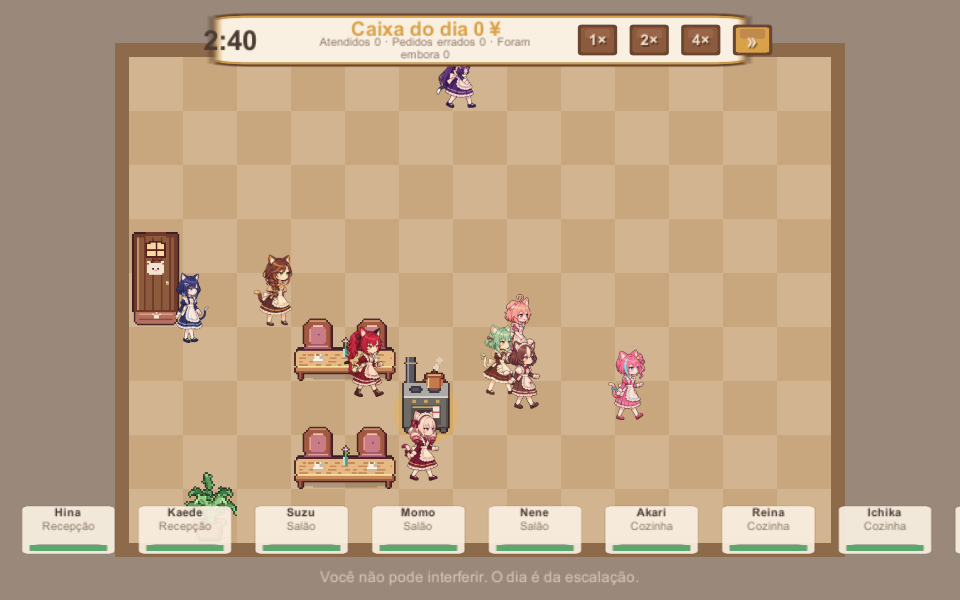
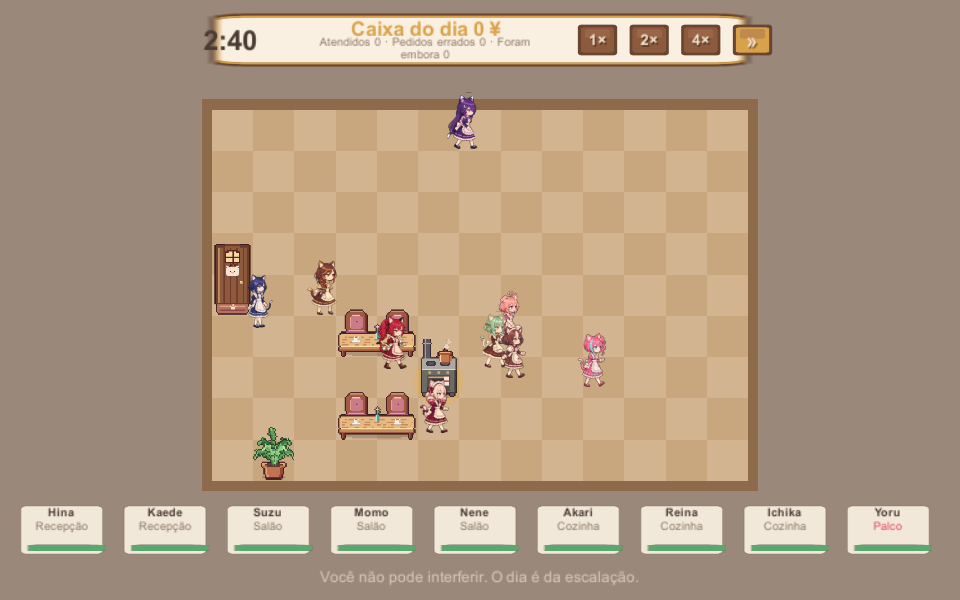
fix(view): frame the shift room between HUD bands; reproducible maid_walk metas; unity guard ignores MCP server
- CameraRig.FrameRoomBetweenHud keeps top-row maids and the lineup chips clear of the HUD (1280x720, 960x600); chips narrowed to fit 16:10
- maid_walk.py preserves .meta GUIDs, --only touches only selected maids, import settings follow style
- unity-editor-processes.py classifies by full command line (unity mcp ignored, ambiguous fails closed) + tests
- docs: WebGL/memory findings, refreshed together_06/10 captures

diff --git a/tools/unity-editor-processes.py b/tools/unity-editor-processes.py
@@ -6,8 +6,10 @@ Unlike `pgrep -x Unity`, reading argv is not affected by Linux's truncated
 """
 import csv
 import io
+import json
 import os
 import pathlib
+import re
 import subprocess
 import sys
 
@@ -15,6 +17,45 @@ import sys
 def is_editor(executable: str) -> bool:
     name = executable.replace("\\", "/").rstrip("/").split("/")[-1].lower()
     return name in {"unity", "unity.exe", "unity-editor"}
+
+
+EDITOR_FLAGS = {"-projectpath", "-batchmode", "-executemethod", "-createproject",
+                "-runtests", "-quit", "-logfile", "-nographics"}
+EDITOR = "editor"
+MCP = "mcp"
+AMBIGUOUS = "ambiguous"
+
+
+def tokenize(command_line: str):
+    """Split a command line into tokens, honouring double quotes (Windows style)."""
+    return [a or b for a, b in re.findall(r'"([^"]*)"|(\S+)', command_line)]
+
+
+def classify(command_line):
+    """Classify one Unity-named process by its FULL command line.
+
+    MCP: the Unity CLI's MCP server, i.e. `unity mcp [...]` with no Editor flags. It never
+         opens the project, so it must not block Editor operations.
+    AMBIGUOUS: the command line is missing/unreadable. Treated as blocking (fail-closed).
+    EDITOR: anything else, including every real Editor launch.
+    """
+    if command_line is None or not command_line.strip():
+        return AMBIGUOUS
+    tokens = tokenize(command_line)
+    if not tokens:
+        return AMBIGUOUS
+    # The Editor binary lives in an ".../Editor/Unity.exe" install folder; the CLI does not.
+    if re.search(r"[\\/]editor[\\/]unity(\.exe)?$", tokens[0].lower()):
+        return EDITOR
+    args = [t.lower() for t in tokens[1:]]
+    if args and args[0] == "mcp" and not any(a in EDITOR_FLAGS for a in args):
+        return MCP
+    return EDITOR
+
+
+def blocking(processes):
+    """processes: iterable of (pid, command_line). Returns the pids that block an Editor run."""
+    return [pid for pid, line in processes if classify(line) != MCP]
 
 
 def editors_linux():
@@ -28,7 +69,9 @@ def editors_linux():
         try:
             args = (pid_dir / "cmdline").read_bytes().split(b"\0")
             if args[0] and is_editor(args[0].decode("utf-8", errors="replace")):
-                found.append(int(pid_dir.name))
+                line = " ".join('"%s"' % a.decode("utf-8", errors="replace")
+                                for a in args if a)
+                found.append((int(pid_dir.name), line))
         except (FileNotFoundError, ProcessLookupError, PermissionError):
             # Short-lived process gone or not owned by this user.
             continue
@@ -43,20 +86,24 @@ def editors_macos():
         if len(fields) == 2 and fields[0].isdigit():
             executable = fields[1].split(None, 1)[0]
             if is_editor(executable):
-                found.append(int(fields[0]))
+                found.append((int(fields[0]), fields[1]))
     return found
 
 
 def editors_windows():
+    """(pid, full command line) of every Unity.exe; the line is None when unreadable."""
+    script = ("Get-CimInstance Win32_Process -Filter \"Name='Unity.exe'\" | "
+              "Select-Object ProcessId,CommandLine | ConvertTo-Json -Compress")
     output = subprocess.check_output(
-        ["tasklist.exe", "/FI", "IMAGENAME eq Unity.exe", "/FO", "CSV", "/NH"],
-        text=True, errors="replace"
-    )
-    found = []
-    for cells in csv.reader(io.StringIO(output)):
-        if len(cells) >= 2 and cells[0].lower() == "unity.exe" and cells[1].isdigit():
-            found.append(int(cells[1]))
-    return found
+        ["powershell.exe", "-NoProfile", "-NonInteractive", "-Command", script],
+        text=True, errors="replace")
+    output = output.strip()
+    if not output:
+        return []
+    data = json.loads(output)
+    if isinstance(data, dict):
+        data = [data]
+    return [(int(row["ProcessId"]), row.get("CommandLine")) for row in data]
 
 
 if __name__ == "__main__":
@@ -72,7 +119,9 @@ if __name__ == "__main__":
     except (RuntimeError, OSError, subprocess.SubprocessError) as exc:
         print(f"ERROR: Unity Editor process detection unavailable: {exc}", file=sys.stderr)
         sys.exit(2)
+    found = blocking(found)
     if found:
-        print(f"ERROR: Unity Editor is already running (PID(s) {', '.join(map(str, found))}). "
+        print(f"ERROR: Unity Editor is already running or cannot be told apart from one "
+              f"(PID(s) {', '.join(map(str, found))}). "
               "Close it before running another Editor operation.", file=sys.stderr)
         sys.exit(1)

diff --git a/tools/art/maid_walk/maid_walk.py b/tools/art/maid_walk/maid_walk.py
@@ -397,13 +397,27 @@ META_FOLDER = "fileFormatVersion: 2\nguid: GUID\nfolderAsset: yes\nDefaultImport
 META_TEXT = "fileFormatVersion: 2\nguid: GUID\nTextScriptImporter:\n  externalObjects: {}\n  userData:\n  assetBundleName:\n  assetBundleVariant:\n"
 
 
-def ensure_meta(path, template):
-    """Unity .meta with a GUID derived from the asset's path, so reruns never change it."""
+# Import settings that follow the processed style (the template carries tokens, never a fixed style).
+META_STYLE = {
+    "illustrated": {"ENABLE_MIPMAP": "1", "FILTER_MODE": "2", "MIP_BIAS": "-0.5"},  # Trilinear + mipmaps
+    "pixel": {"ENABLE_MIPMAP": "0", "FILTER_MODE": "0", "MIP_BIAS": "0"},           # Point, no mipmaps
+}
+
+
+def ensure_meta(path, template, style="illustrated"):
+    """Unity .meta for `path`. An existing GUID is always kept; a new asset gets one derived from its path."""
     meta = path + ".meta"
-    if True:  # always rewritten: import settings (filter, mipmaps, compression) come from the template
+    guid = None
+    if os.path.exists(meta):
+        found = re.search(r"^guid: ([0-9a-f]{32})\s*$", open(meta, encoding="utf8").read(), re.M)
+        guid = found.group(1) if found else None
+    if guid is None:
         guid = hashlib.md5(os.path.relpath(path, ROOT).replace("\\", "/").encode()).hexdigest()
-        with open(meta, "w", encoding="utf8", newline="\n") as f:
-            f.write(template.replace("GUID", guid))
+    text = template.replace("GUID", guid)
+    for token, value in META_STYLE[style].items():
+        text = text.replace(token, value)
+    with open(meta, "w", encoding="utf8", newline="\n") as f:
+        f.write(text)
 
 
 def main():
@@ -470,8 +484,10 @@ def main():
             json.dump({"maids": entries}, f, indent=1)
             f.write("\n")
     if write:
-        for f in glob.glob(os.path.join(OUT_RES, "*_walk.png")):  # rewrites every .meta from the template
-            ensure_meta(f, META_TEXTURE)
+        # Only the sheets processed in this run: a `--only` run never touches another maid's asset or .meta.
+        for r in results:
+            if r.get("resource"):
+                ensure_meta(os.path.join(OUT_RES, r["id"] + "_walk.png"), META_TEXTURE, maids[0]["style"])
         ensure_meta(os.path.join(OUT_RES, "maid_walk_catalog.json"), META_TEXT)
         ensure_meta(OUT_RES, META_FOLDER)
     with open(os.path.join(work, "audit.json"), "w", encoding="utf8") as f:

diff --git a/Assets/_Game/Scripts/Game/Core/CameraRig.cs b/Assets/_Game/Scripts/Game/Core/CameraRig.cs
@@ -29,6 +29,20 @@ namespace Neko.Game.Core
         /// </remarks>
         public const float Margin = 0.9f;
 
+        /// <summary>
+        /// HUD bands during a shift, in 720-pixel reference units (the canvas matches height,
+        /// so these are the same fraction of the screen at every window size): the top bar
+        /// and the bottom lineup strip plus hint line.
+        /// </summary>
+        public const float ShiftTopInset = 92f;
+        public const float ShiftBottomInset = 128f;
+
+        /// <summary>Tiles above the top row that a standing maid's head occupies.</summary>
+        public const float HeadRoom = 0.8f;
+
+        /// <summary>Tiles below the bottom row kept for feet and the room frame.</summary>
+        public const float FootRoom = 0.3f;
+
         private Vector3 _home;
         private float _shakeSeconds;
         private float _shakeAmplitude;
@@ -64,6 +78,33 @@ namespace Neko.Game.Core
             var wantedWidth = (width + Margin * 2f) * 0.5f / NarrowestAspect;
 
             Camera.orthographicSize = Mathf.Max(wantedHeight, wantedWidth);
+        }
+
+        /// <summary>
+        /// Frames the room so that every tile, and the head of a maid standing on the top row,
+        /// sits between the shift HUD's top bar and bottom strip instead of behind them.
+        /// Never zooms in further than <see cref="FrameRoom"/> would.
+        /// </summary>
+        public void FrameRoomBetweenHud(int width, int height)
+        {
+            FrameRoom(width, height);
+
+            const float reference = 720f;
+            var low = ShiftBottomInset / reference;
+            var high = 1f - ShiftTopInset / reference;
+
+            var bottom = -0.5f - FootRoom;
+            var top = height - 0.5f + HeadRoom;
+            var size = Mathf.Max(Camera.orthographicSize, (top - bottom) / (2f * (high - low)));
+            Camera.orthographicSize = size;
+
+            // Centre the content in the band between the two HUD edges.
+            var middle = (top + bottom) * 0.5f;
+            var centre = (low + high) * 0.5f;
+            var y = middle + size - 2f * size * centre;
+
+            _home = new Vector3((width - 1) * 0.5f, y, -10f);
+            transform.position = _home;
         }
 
         public void Shake(float amplitude, float seconds)

diff --git a/Assets/_Game/Scripts/Game/Ui/DayHud.cs b/Assets/_Game/Scripts/Game/Ui/DayHud.cs
@@ -68,7 +68,7 @@ namespace Neko.Game.Ui
 
             _strip = UiKit.Row(transform, 8f);
             UiKit.Anchor(_strip, new Vector2(0f, 0f), new Vector2(16f, 46f));
-            _strip.sizeDelta = new Vector2(1000f, 76f);
+            _strip.sizeDelta = new Vector2(1100f, 76f);
 
             var hint = UiKit.Label(transform, Strings.Get("day.watching"), Typeface.Small,
                 Palette.WithAlpha(Palette.Cream, 0.7f));
@@ -97,21 +97,21 @@ namespace Neko.Game.Ui
 
             foreach (var worker in shift.Workers)
             {
-                var chip = UiKit.Panel(_strip, new Vector2(132f, 68f),
+                var chip = UiKit.Panel(_strip, new Vector2(116f, 68f),
                     Palette.WithAlpha(Palette.Panel, 0.92f), 0.2f);
                 _chips.Add(chip.gameObject);
 
                 var name = UiKit.Label(chip, worker.Name, Typeface.Tiny, Palette.Text,
                     bold: true);
-                name.rectTransform.sizeDelta = new Vector2(126f, 18f);
+                name.rectTransform.sizeDelta = new Vector2(112f, 18f);
                 UiKit.Anchor(name.rectTransform, new Vector2(0.5f, 1f), new Vector2(0f, -4f));
 
                 var role = UiKit.Label(chip, RoleTable.For(worker.Role).DisplayName,
                     Typeface.Tiny, worker.InPosition ? Palette.TextDim : Palette.Alarm);
-                role.rectTransform.sizeDelta = new Vector2(126f, 16f);
+                role.rectTransform.sizeDelta = new Vector2(112f, 16f);
                 UiKit.Anchor(role.rectTransform, new Vector2(0.5f, 1f), new Vector2(0f, -22f));
 
-                var mood = UiKit.Bar(chip, new Vector2(110f, 9f), Palette.Good, Palette.Wall);
+                var mood = UiKit.Bar(chip, new Vector2(98f, 9f), Palette.Good, Palette.Wall);
                 UiKit.Anchor((RectTransform)mood.rectTransform.parent, new Vector2(0.5f, 0f),
                     new Vector2(0f, 8f));
 

diff --git a/tools/tests/test_unity_editor_processes.py b/tools/tests/test_unity_editor_processes.py
@@ -1,0 +1,42 @@
+#!/usr/bin/env python3
+"""Classification of Unity-named processes: MCP server vs real Editor vs ambiguous."""
+import importlib.util
+from pathlib import Path
+import unittest
+
+PATH = Path(__file__).resolve().parents[1] / "unity-editor-processes.py"
+spec = importlib.util.spec_from_file_location("unity_editor_processes", PATH)
+mod = importlib.util.module_from_spec(spec)
+spec.loader.exec_module(mod)
+
+EDITOR_EXE = r'"C:\Program Files\Unity\Hub\Editor\6000.5.9f1\Editor\Unity.exe"'
+
+
+class Classification(unittest.TestCase):
+    def test_mcp_server_is_ignored(self):
+        self.assertEqual(mod.classify("unity mcp"), mod.MCP)
+        self.assertEqual(mod.blocking([(1, "unity mcp")]), [])
+
+    def test_real_editor_blocks(self):
+        for line in (EDITOR_EXE,
+                     EDITOR_EXE + r' -projectPath C:\dev\game',
+                     EDITOR_EXE + " -batchmode -quit",
+                     "unity -projectPath x"):
+            self.assertEqual(mod.classify(line), mod.EDITOR, line)
+        self.assertEqual(mod.blocking([(7, EDITOR_EXE)]), [7])
+
+    def test_mcp_word_with_editor_flags_or_editor_binary_still_blocks(self):
+        self.assertEqual(mod.classify("unity mcp -projectPath x"), mod.EDITOR)
+        self.assertEqual(mod.classify(EDITOR_EXE + " mcp"), mod.EDITOR)
+
+    def test_ambiguous_fails_closed(self):
+        for line in (None, "", "   "):
+            self.assertEqual(mod.classify(line), mod.AMBIGUOUS)
+            self.assertEqual(mod.blocking([(9, line)]), [9])
+
+    def test_mixed_list_blocks_only_on_non_mcp(self):
+        self.assertEqual(mod.blocking([(1, "unity mcp"), (2, EDITOR_EXE), (3, None)]), [2, 3])
+
+
+if __name__ == "__main__":
+    unittest.main()

diff --git a/Assets/_Game/Scripts/Game/Core/GameRoot.cs b/Assets/_Game/Scripts/Game/Core/GameRoot.cs
@@ -296,7 +296,7 @@ namespace Neko.Game.Core
             Clocks.Reset();
 
             var shift = Session.StartDay();
-            Camera.FrameRoom(shift.Grid.Width, shift.Grid.Height);
+            Camera.FrameRoomBetweenHud(shift.Grid.Width, shift.Grid.Height);
             Presenter.Begin(shift);
 
             // Shown first, then filled. A screen builds its widgets on its first show,

diff --git a/docs/art/maid-walk/README.md b/docs/art/maid-walk/README.md
@@ -17,9 +17,15 @@ Window > General > Test Runner > PlayMode, run `MaidGameplayTests`:
 ## Trade-offs
 - **Sliding feet**: sources are slow walks in place; cadence is ~30 drawings/s at 1x, capped at 60/s. Feet slide 2.4-5.2x (see inventory). Needs faster-stride footage to fix.
 - **Style (ART-04, current)**: illustrated anime 2D. One Lanczos downsample (premultiplied alpha) of the original frame to 240 px character height; original colours, shading, outlines and soft alpha untouched; no palette, no hard alpha. The sprite is still 1.3 world units tall (`pixels_per_unit = 240/1.3`), so sharpness and on-screen size are independent. Import: Trilinear, mipmaps (bias -0.5), high-quality block compression, non-readable. Cells are multiples of 4 px.
-- **Style (ART-03, rollback)**: 120 px + 48-colour palette + hard alpha, commit `37b0f3f`; `maid_walk.py process --style pixel` reproduces it (and the old Point-filter import must then be restored by hand).
+- **Style (ART-03, rollback)**: 120 px + 48-colour palette + hard alpha, commit `37b0f3f`; `maid_walk.py process --style pixel` reproduces it and rewrites the `.meta` import settings to match (Point filter, no mipmaps). Existing GUIDs are always kept, and `process --only a,b` touches only those maids' PNG, `.meta`, manifest and catalog entry. Rolling back is therefore `process --style pixel` plus restoring the old protected test thresholds, or `git revert` of the ART-04 commits.
 - **Evidence**: `evidence_illustrated/` (9 maids together in a real shift at 1280x720 and 960x600, per-maid sequence shots, `fidelity_vs_original.png`).
 - **Loops**: Suzu (24→15, a single-step loop), Momo (27→20 frames), Reina (36→33) and Kaede (28→17) were trimmed to the stretch that loops; Kaede still jumps slightly at the wrap (LIMITED).
 - **Equipment**: gear removes the authored look (layers cannot be drawn over a flat sheet).
 - **Only walk exists**: Idle/Carry/Cook/Tired reuse walk frames, plate and dimming.
 - **Memory**: nine sheets, ~10.2 MB uncompressed in total, shared per sheet through `SpriteFactory`; WebGL build not measured.
+
+## ART-04 closing validation (HUD framing, WebGL, memory)
+- **HUD framing**: during a shift `CameraRig.FrameRoomBetweenHud` frames the room between the top bar (92 px) and the lineup strip (128 px) in 720-px reference units, with 0.8 tile of head room above the top row. Yoru on the top row is fully visible at 1280x720 and 960x600; lineup chips were narrowed (132 -> 116 px) so all nine fit at 16:10. On-screen scale in the 13x9 room drops about 25%; sprites and resolution are unchanged.
+- **WebGL build**: PASS (`tools/build-webgl.sh`, 35.0 MB build, 25.3 MB data gzip). Browser (Chrome, localhost): boots, menu, hub and a live shift run; console shows only two benign "sound not loaded yet" logs. **The nine illustrated sheets were NOT seen in the browser**: a new company opens with three procedural maids, so the illustrated ones only appear after recruiting. Their rendering is covered by PlayMode captures only. Verdict: BUILD PASS, BROWSER PARTIAL, ILLUSTRATED SPRITES NOT VERIFIED IN BROWSER.
+- **Texture memory (measured from the build report)**: the nine walk sheets are 3.6-8.7 MB each, 50.8 MB together, which is RGBA32 *with mipmaps* (9.97 Mpx x 4 B x 4/3 = 53 MB). **They are not block-compressed in the WebGL build** (the importer's WebGL entry is not overridden and resolves to uncompressed). The "~13 MB compressed" figure in earlier notes was a theoretical estimate and does not hold for WebGL. Not measured: browser JS heap / GPU residency.
+- **Budget test**: `TheSharedTextureBudgetStaysSmall` caps total *pixels* at 12 Mpx (current 9.97). It guards against sheet bloat; it is not a GPU memory guarantee (real WebGL cost is about 5.3 bytes/pixel today).
